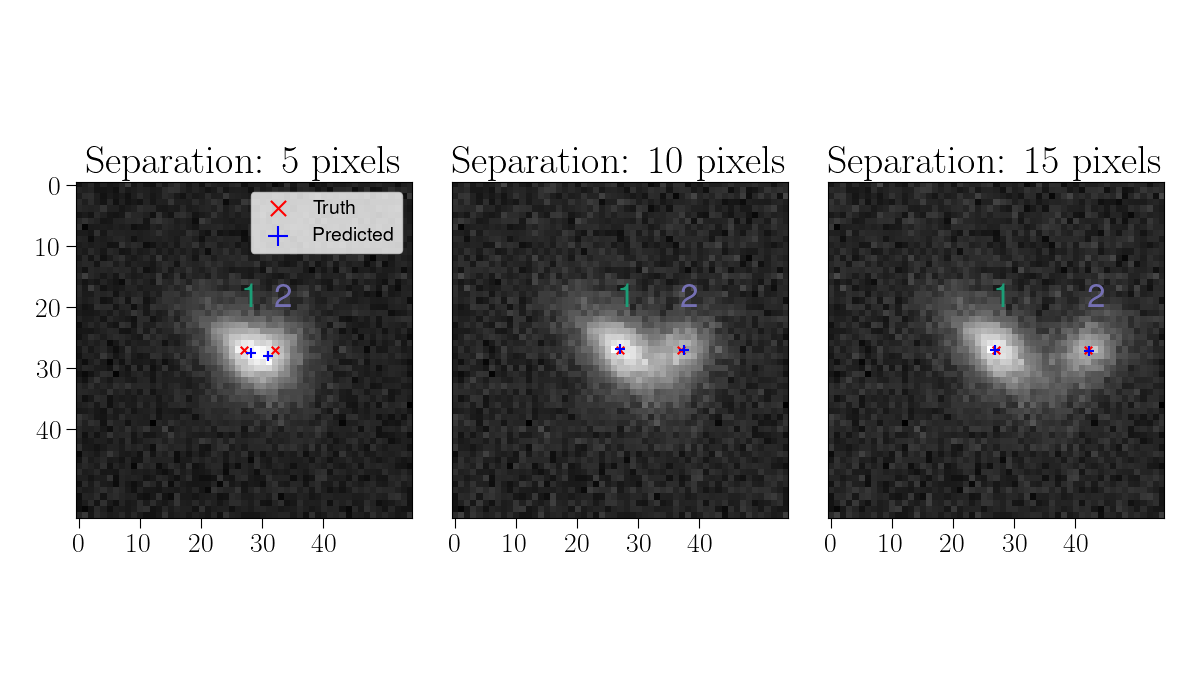
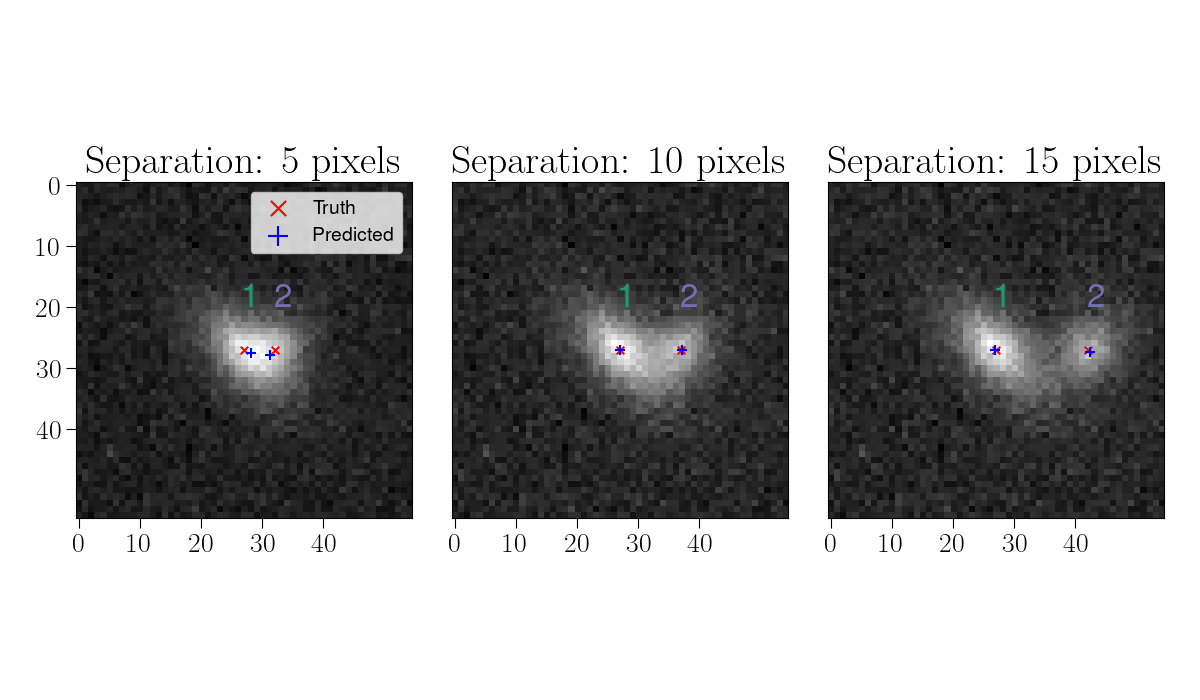
new figures (#104)

diff --git a/experiment/scripts/figures/toy_figures.py b/experiment/scripts/figures/toy_figures.py
@@ -1,5 +1,6 @@
 import matplotlib.pyplot as plt
 import numpy as np
+import pytorch_lightning as pl
 import torch
 from einops import rearrange
 from matplotlib.figure import Figure
@@ -69,6 +70,9 @@ class ToySeparationFigure(BlissFigure):
         return [5, 10, 15]
 
     def compute_data(self, detection: DetectionEncoder, deblender: GalaxyEncoder):
+        # match previous noise realization that used a different seed
+        pl.seed_everything(43)
+
         # first, decide image size
         slen = 55
         bp = detection.bp
@@ -165,7 +169,7 @@ class ToySeparationFigure(BlissFigure):
         assert recon_ptiles.shape[-1] == recon_ptiles.shape[-2] == ptile_slen
         recon = reconstruct_image_from_ptiles(recon_ptiles, tile_slen)
         recon = recon.detach().cpu()
-        residuals = (recon - images) / torch.sqrt(bg)
+        residuals = (recon - images) / np.sqrt(bg)
 
         # now we need to obtain pred. plocs, prob. of detection in tile and std. of plocs
         # for each source
